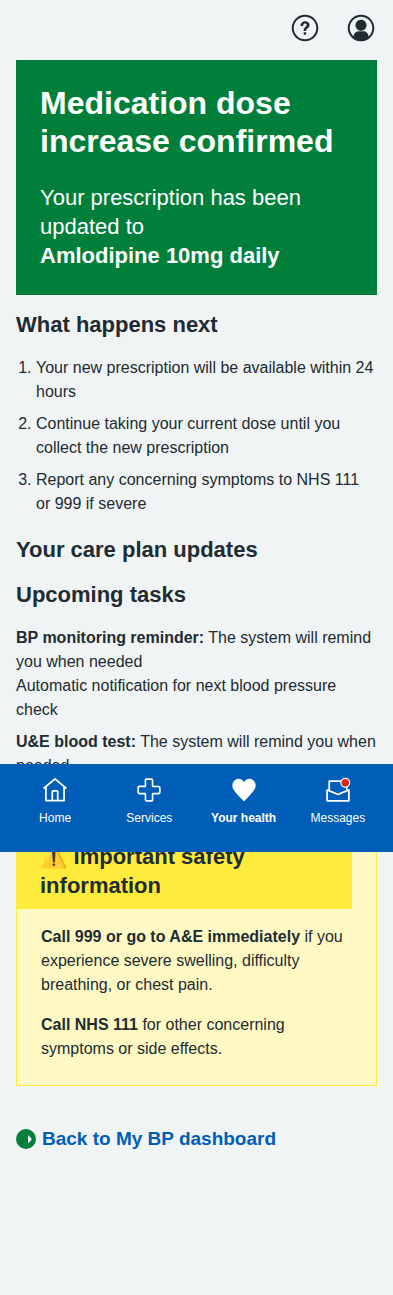
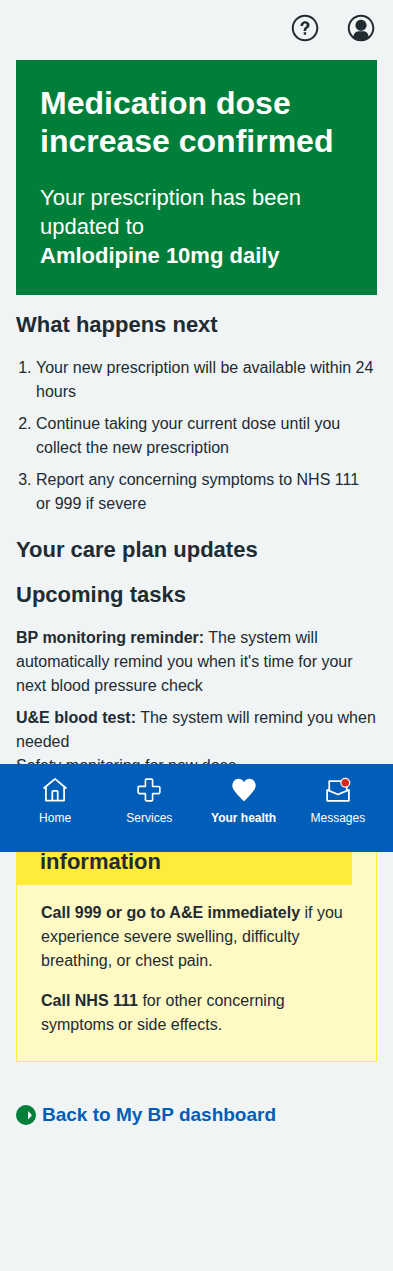
Fix duplicate BP monitoring reminders and improve clarity in confirmation screen

Changed region(s): [[0.0, 0.0614, 1.0, 0.8899], [0.8855, 0.0, 0.9466, 0.0307], [0.7634, 0.0, 0.7939, 0.0307]]

diff --git a/prototype/v1/app/views/pages/mybp/dose-titration/confirmation.html b/prototype/v1/app/views/pages/mybp/dose-titration/confirmation.html
@@ -35,8 +35,7 @@
         <div class="nhsuk-summary-card__body">
           <ul class="nhsuk-list">
             <li>
-              <strong>BP monitoring reminder:</strong> The system will remind you when needed
-              <br><span class="nhsuk-u-secondary-text-colour">Automatic notification for next blood pressure check</span>
+              <strong>BP monitoring reminder:</strong> The system will automatically remind you when it's time for your next blood pressure check
             </li>
             <li>
               <strong>U&E blood test:</strong> The system will remind you when needed

diff --git a/prototype/v1/screenshots/screenshots.md b/prototype/v1/screenshots/screenshots.md
@@ -25,7 +25,7 @@ Complete collection of iPhone-formatted screenshots (393x852 pixels) for all scr
 
     ### 4. Confirmation
     ![Dose Titration Confirmation](dose-titration-confirmation.png)
-    **Dose Increase Confirmed** - Confirmation screen with streamlined care plan updates and safety information. Features patient-focused language that tells users only what they need to do today, with clear system reminders for future monitoring tasks. Important safety guidance: call 999 or go to A&E if you experience severe swelling, difficulty breathing, or chest pain; call NHS 111 for other concerning symptoms.
+    **Dose Increase Confirmed** - Confirmation screen with streamlined care plan updates and safety information. Features patient-focused language that tells users only what they need to do today, with clear system reminders for future monitoring tasks. Updated to remove duplication and ensure clear, specific language for each reminder type. Important safety guidance: call 999 or go to A&E if you experience severe swelling, difficulty breathing, or chest pain; call NHS 111 for other concerning symptoms.
 
     ### 5. Blood Test Scheduling
     ![Blood Test Overview](blood-test-overview.png)
